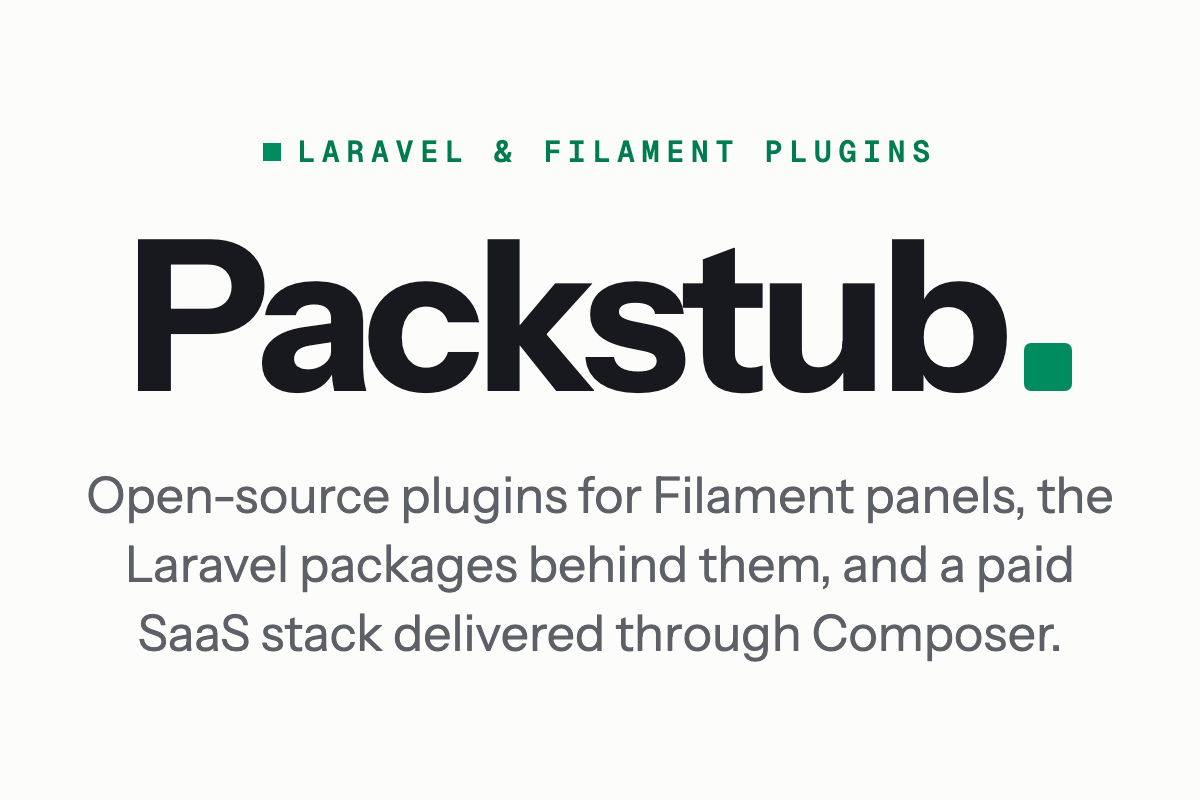
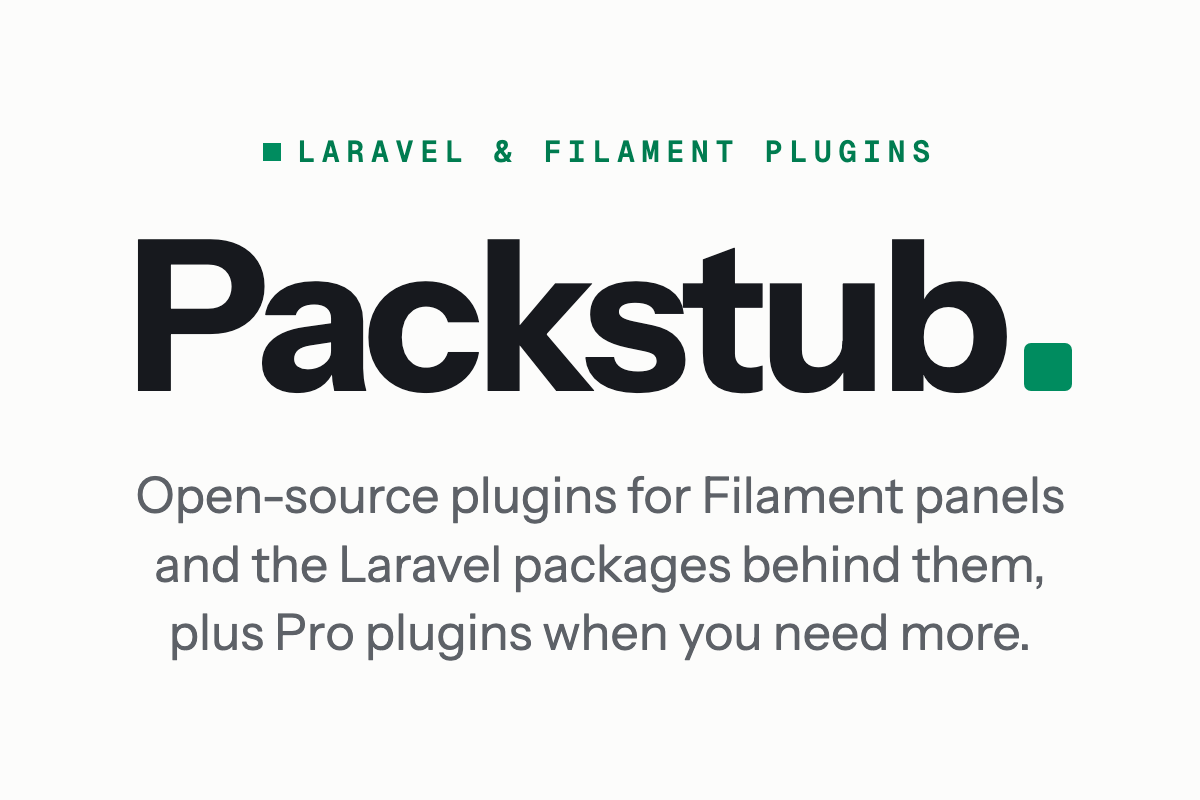
Org profile: every open-source plugin and package, Filament Tenancy under Pro
Adds Holler, Teams, Features, Spreadsheet, Gantt, Coedit, Credits and the SaaS starter; the hero line reads open source plus Pro plugins; the retired SaaS Stack card goes.

Changed region(s): [[0.0925, 0.6875, 0.8942, 0.8438], [0.0617, 0.5938, 0.925, 0.6562]]

diff --git a/profile/README.md b/profile/README.md
@@ -2,7 +2,7 @@
   <a href="https://packstub.dev">
     <picture>
       <source media="(max-width: 600px)" srcset="https://raw.githubusercontent.com/packstub/.github/main/profile/hero-mobile.png">
-      <img src="https://raw.githubusercontent.com/packstub/.github/main/profile/hero.png" alt="Packstub: Laravel and Filament plugins" width="100%">
+      <img src="https://raw.githubusercontent.com/packstub/.github/main/profile/hero.png" alt="Packstub: open-source plugins for Filament panels and the Laravel packages behind them" width="100%">
     </picture>
   </a>
 </p>
@@ -15,9 +15,9 @@
   <a href="https://xlite.dev">XLITE</a>
 </p>
 
-Plugins for [Filament](https://filamentphp.com) panels and the Laravel packages behind them. Most of it is open source under MIT and on Packagist. The paid plugins are sold on [packstub.dev](https://packstub.dev) the Composer-native way: buy once, get a personal token, `composer require`, and keep getting updates with your licence. Packages marked `beta` are usable today and tagged as pre-releases until 1.0.
+Plugins for [Filament](https://filamentphp.com) panels and the Laravel packages behind them, open source under MIT and installed from Packagist with `composer require`. When a project needs more, the Pro plugins install the same way, from Packstub's own Composer repository.
 
-## Open source
+## Filament plugins
 
 <table>
 <tr>
@@ -28,10 +28,10 @@ An in-panel AI assistant and an MCP server from one tool list.<br>
 <sub><a href="https://packstub.dev/docs/filament-agents">Docs</a> &middot; <a href="https://filamentphp.com/plugins/packstub-agents">Directory</a> &middot; <a href="https://packagist.org/packages/packstub/filament-agents">Packagist</a></sub>
 </td>
 <td width="50%" valign="top">
-<a href="https://github.com/packstub/filament-account-switcher"><img src="https://raw.githubusercontent.com/packstub/art/main/filament-account-switcher/thumbnail.jpg" alt="Filament Account Switcher" width="100%"></a>
-<b><a href="https://github.com/packstub/filament-account-switcher">Filament Account Switcher</a></b><br>
-Impersonation, linked sub-accounts and developer logins, with an audit log.<br>
-<sub><a href="https://packstub.dev/docs/filament-account-switcher">Docs</a> &middot; <a href="https://filamentphp.com/plugins/packstub-account-switcher">Directory</a> &middot; <a href="https://packagist.org/packages/packstub/filament-account-switcher">Packagist</a></sub>
+<a href="https://github.com/packstub/filament-session-replay"><img src="https://raw.githubusercontent.com/packstub/art/main/filament-session-replay/thumbnail.jpg" alt="Filament Session Replay" width="100%"></a>
+<b><a href="https://github.com/packstub/filament-session-replay">Filament Session Replay</a></b><br>
+Watch what users did in your panel, errors and rage clicks on the timeline.<br>
+<sub><a href="https://packstub.dev/docs/filament-session-replay">Docs</a> &middot; <a href="https://filamentphp.com/plugins/packstub-session-replay">Directory</a> &middot; <a href="https://packagist.org/packages/packstub/filament-session-replay">Packagist</a></sub>
 </td>
 </tr>
 <tr>
@@ -50,46 +50,94 @@ Forms built in the admin, rendered with Blade, Livewire or JSON.<br>
 </tr>
 <tr>
 <td width="50%" valign="top">
-<a href="https://github.com/packstub/filament-kanban"><img src="https://raw.githubusercontent.com/packstub/art/main/filament-kanban/thumbnail.jpg" alt="Filament Kanban" width="100%"></a>
-<b><a href="https://github.com/packstub/filament-kanban">Filament Kanban</a></b><br>
-A fast board with optimistic drag and drop and per-user columns.<br>
-<sub><a href="https://packstub.dev/docs/filament-kanban">Docs</a> &middot; <a href="https://packagist.org/packages/packstub/filament-kanban">Packagist</a></sub>
+<a href="https://github.com/packstub/filament-account-switcher"><img src="https://raw.githubusercontent.com/packstub/art/main/filament-account-switcher/thumbnail.jpg" alt="Filament Account Switcher" width="100%"></a>
+<b><a href="https://github.com/packstub/filament-account-switcher">Filament Account Switcher</a></b><br>
+Impersonation, linked sub-accounts and developer logins, with an audit log.<br>
+<sub><a href="https://packstub.dev/docs/filament-account-switcher">Docs</a> &middot; <a href="https://filamentphp.com/plugins/packstub-account-switcher">Directory</a> &middot; <a href="https://packagist.org/packages/packstub/filament-account-switcher">Packagist</a></sub>
 </td>
 <td width="50%" valign="top">
-<a href="https://github.com/packstub/filament-rating"><img src="https://raw.githubusercontent.com/packstub/art/main/filament-rating/thumbnail.jpg" alt="Filament Rating" width="100%"></a>
-<b><a href="https://github.com/packstub/filament-rating">Filament Rating</a></b><br>
-Star ratings as a field, column, entry and summarizer, half stars included.<br>
-<sub><a href="https://packstub.dev/docs/filament-rating">Docs</a> &middot; <a href="https://packagist.org/packages/packstub/filament-rating">Packagist</a></sub>
+<a href="https://github.com/packstub/filament-holler"><img src="https://raw.githubusercontent.com/packstub/art/main/filament-holler/thumbnail.jpg" alt="Filament Holler" width="100%"></a>
+<b><a href="https://github.com/packstub/filament-holler">Filament Holler</a></b><br>
+Audio, video and screen-share calls inside the panel, peer to peer over WebRTC.<br>
+<sub><a href="https://packstub.dev/docs/filament-holler">Docs</a> &middot; <a href="https://filamentphp.com/plugins/packstub-holler">Directory</a> &middot; <a href="https://packagist.org/packages/packstub/filament-holler">Packagist</a></sub>
 </td>
 </tr>
 <tr>
 <td width="50%" valign="top">
-<a href="https://github.com/packstub/filament-session-replay"><img src="https://raw.githubusercontent.com/packstub/art/main/filament-session-replay/thumbnail.jpg" alt="Filament Session Replay" width="100%"></a>
-<b><a href="https://github.com/packstub/filament-session-replay">Filament Session Replay</a></b> <sub><code>beta</code></sub><br>
-Watch what users did in your panel, errors and rage clicks on the timeline.<br>
-<sub><a href="https://packstub.dev/docs/filament-session-replay">Docs</a> &middot; <a href="https://packagist.org/packages/packstub/filament-session-replay">Packagist</a></sub>
+<a href="https://github.com/packstub/filament-teams"><img src="https://raw.githubusercontent.com/packstub/art/main/filament-teams/thumbnail.jpg" alt="Filament Teams" width="100%"></a>
+<b><a href="https://github.com/packstub/filament-teams">Filament Teams</a></b><br>
+Teams, invitations, seat limits and tenant-scoped roles.<br>
+<sub><a href="https://packstub.dev/docs/filament-teams">Docs</a> &middot; <a href="https://filamentphp.com/plugins/packstub-teams">Directory</a> &middot; <a href="https://packagist.org/packages/packstub/filament-teams">Packagist</a></sub>
+</td>
+<td width="50%" valign="top">
+<a href="https://github.com/packstub/filament-features"><img src="https://raw.githubusercontent.com/packstub/art/main/filament-features/thumbnail.jpg" alt="Filament Features" width="100%"></a>
+<b><a href="https://github.com/packstub/filament-features">Filament Features</a></b><br>
+Plans, limits and feature flags per tenant, with overrides and kill switches.<br>
+<sub><a href="https://packstub.dev/docs/filament-features">Docs</a> &middot; <a href="https://filamentphp.com/plugins/packstub-features">Directory</a> &middot; <a href="https://packagist.org/packages/packstub/filament-features">Packagist</a></sub>
+</td>
+</tr>
+<tr>
+<td width="50%" valign="top">
+<a href="https://github.com/packstub/filament-spreadsheet"><img src="https://raw.githubusercontent.com/packstub/art/main/filament-spreadsheet/thumbnail.jpg" alt="Filament Spreadsheet" width="100%"></a>
+<b><a href="https://github.com/packstub/filament-spreadsheet">Filament Spreadsheet</a></b><br>
+Edit hundreds of records like a spreadsheet, saved in one validated batch.<br>
+<sub><a href="https://packstub.dev/docs/filament-spreadsheet">Docs</a> &middot; <a href="https://filamentphp.com/plugins/packstub-spreadsheet">Directory</a> &middot; <a href="https://packagist.org/packages/packstub/filament-spreadsheet">Packagist</a></sub>
+</td>
+<td width="50%" valign="top">
+<a href="https://github.com/packstub/filament-gantt"><img src="https://raw.githubusercontent.com/packstub/art/main/filament-gantt/thumbnail.jpg" alt="Filament Gantt" width="100%"></a>
+<b><a href="https://github.com/packstub/filament-gantt">Filament Gantt</a></b><br>
+A Gantt chart and resource timeline from any Eloquent query with a start and an end.<br>
+<sub><a href="https://packstub.dev/docs/filament-gantt">Docs</a> &middot; <a href="https://filamentphp.com/plugins/packstub-gantt">Directory</a> &middot; <a href="https://packagist.org/packages/packstub/filament-gantt">Packagist</a></sub>
+</td>
+</tr>
+<tr>
+<td width="50%" valign="top">
+<a href="https://github.com/packstub/filament-kanban"><img src="https://raw.githubusercontent.com/packstub/art/main/filament-kanban/thumbnail.jpg" alt="Filament Kanban" width="100%"></a>
+<b><a href="https://github.com/packstub/filament-kanban">Filament Kanban</a></b><br>
+A fast board with optimistic drag and drop and per-user columns.<br>
+<sub><a href="https://packstub.dev/docs/filament-kanban">Docs</a> &middot; <a href="https://filamentphp.com/plugins/packstub-kanban">Directory</a> &middot; <a href="https://packagist.org/packages/packstub/filament-kanban">Packagist</a></sub>
+</td>
+<td width="50%" valign="top">
+<a href="https://github.com/packstub/filament-coedit"><img src="https://raw.githubusercontent.com/packstub/art/main/filament-coedit/thumbnail.jpg" alt="Filament Coedit" width="100%"></a>
+<b><a href="https://github.com/packstub/filament-coedit">Filament Coedit</a></b><br>
+Edit records together without locks: live presence and field-by-field merges.<br>
+<sub><a href="https://packstub.dev/docs/filament-coedit">Docs</a> &middot; <a href="https://packagist.org/packages/packstub/filament-coedit">Packagist</a></sub>
+</td>
+</tr>
+<tr>
+<td width="50%" valign="top">
+<a href="https://github.com/packstub/filament-rating"><img src="https://raw.githubusercontent.com/packstub/art/main/filament-rating/thumbnail.jpg" alt="Filament Rating" width="100%"></a>
+<b><a href="https://github.com/packstub/filament-rating">Filament Rating</a></b><br>
+Star ratings as a field, column, entry and summarizer, half stars included.<br>
+<sub><a href="https://packstub.dev/docs/filament-rating">Docs</a> &middot; <a href="https://filamentphp.com/plugins/packstub-rating">Directory</a> &middot; <a href="https://packagist.org/packages/packstub/filament-rating">Packagist</a></sub>
 </td>
 <td width="50%" valign="top">
 <a href="https://github.com/packstub/filament-nitpick"><img src="https://raw.githubusercontent.com/packstub/art/main/filament-nitpick/thumbnail.jpg" alt="Nitpick" width="100%"></a>
-<b><a href="https://github.com/packstub/filament-nitpick">Nitpick</a></b> <sub><code>beta</code></sub><br>
+<b><a href="https://github.com/packstub/filament-nitpick">Nitpick</a></b><br>
 Designed themes for Filament panels, with a per-user choice.<br>
-<sub><a href="https://packstub.dev/docs/filament-nitpick">Docs</a> &middot; <a href="https://packagist.org/packages/packstub/filament-nitpick">Packagist</a></sub>
+<sub><a href="https://packstub.dev/docs/filament-nitpick">Docs</a> &middot; <a href="https://filamentphp.com/plugins/packstub-nitpick">Directory</a> &middot; <a href="https://packagist.org/packages/packstub/filament-nitpick">Packagist</a></sub>
 </td>
 </tr>
 </table>
 
-### Laravel packages
+## Laravel packages
 
-Each of these runs in a plain Laravel app on its own. The first three are the engines behind the Filament plugins of the same name.
+Each of these runs in a plain Laravel app on its own; most are the engines behind the Filament plugins of the same name.
 
 - **[Agents for Laravel](https://github.com/packstub/agents)**: an agent engine and an MCP server sharing one tool list, with turns, budgets and limits. [Docs](https://packstub.dev/docs/agents) &middot; [Packagist](https://packagist.org/packages/packstub/agents)
-- **[Session Replay for Laravel](https://github.com/packstub/session-replay)** `beta`: an rrweb recorder with privacy defaults, token-signed ingest, recordings on your own disk and database, a player behind a gate you define. [Docs](https://packstub.dev/docs/session-replay) &middot; [Packagist](https://packagist.org/packages/packstub/session-replay) &middot; [Demo app](https://github.com/packstub/session-replay-demo)
-- **[Account Switcher for Laravel](https://github.com/packstub/account-switcher)**: the session core of Filament Account Switcher, with routes and Blade components.
+- **[Session Replay for Laravel](https://github.com/packstub/session-replay)**: an rrweb recorder with privacy defaults, token-signed ingest, recordings on your own disk and database, a player behind a gate you define. [Docs](https://packstub.dev/docs/session-replay) &middot; [Packagist](https://packagist.org/packages/packstub/session-replay) &middot; [Demo app](https://github.com/packstub/session-replay-demo)
+- **[Account Switcher for Laravel](https://github.com/packstub/account-switcher)**: impersonation, linked sub-accounts and developer logins without signing out, with an audit log. [Docs](https://packstub.dev/docs/account-switcher) &middot; [Packagist](https://packagist.org/packages/packstub/account-switcher)
+- **[Holler for Laravel](https://github.com/packstub/holler)**: audio, video and screen-share calls between the users of an app, 1-on-1 or up to four, with polling signaling and no websockets. [Docs](https://packstub.dev/docs/holler) &middot; [Packagist](https://packagist.org/packages/packstub/holler) &middot; [holler-js](https://github.com/packstub/holler-js), its browser engine
+- **[Credits](https://github.com/packstub/credits)**: credits and usage metering, with expiring credits, holds for AI calls, exact meters and plan allowances without a cron. [Docs](https://packstub.dev/docs/credits) &middot; [Packagist](https://packagist.org/packages/packstub/credits)
 - **[Partisan](https://github.com/packstub/partisan)**: Artisan for Laravel packages, `make:` generators that write into `src/` with your package namespace. [Docs](https://packstub.dev/docs/partisan) &middot; [Packagist](https://packagist.org/packages/packstub/partisan)
 
-## Paid plugins
+## Starter kit
 
-Licensed updates, VAT invoices and a customer portal that shows you exactly how to install.
+- **[Filament SaaS Starter](https://github.com/packstub/filament-saas-starter)**: a multi-tenant SaaS starter for Laravel and Filament with sign-up, workspaces, team invitations, plans with limits and Stripe billing, built on Filament Teams and Filament Features. [Packagist](https://packagist.org/packages/packstub/filament-saas-starter)
+
+## Pro
+
+For the projects that need more, with licensed updates and a customer portal that shows you exactly how to install.
 
 <table>
 <tr>
@@ -97,36 +145,19 @@ Licensed updates, VAT invoices and a customer portal that shows you exactly how 
 <a href="https://packstub.dev/plugins/filament-tenancy"><img src="https://raw.githubusercontent.com/packstub/art/main/filament-tenancy/thumbnail.jpg" alt="Filament Tenancy" width="100%"></a>
 <b><a href="https://packstub.dev/plugins/filament-tenancy">Filament Tenancy</a></b><br>
 One database per tenant, any number of database servers. Powered by stancl/tenancy.<br>
-<sub><a href="https://packstub.dev/plugins/filament-tenancy">Store</a> &middot; <a href="https://packstub.dev/docs/filament-tenancy">Docs</a> &middot; <a href="https://filamentphp.com/plugins/packstub-tenancy">Directory</a> &middot; <a href="https://github.com/packstub/filament-tenancy-demo">Demo app</a></sub>
+<sub><a href="https://packstub.dev/plugins/filament-tenancy">Plugin page</a> &middot; <a href="https://packstub.dev/docs/filament-tenancy">Docs</a> &middot; <a href="https://filamentphp.com/plugins/packstub-tenancy">Directory</a> &middot; <a href="https://github.com/packstub/filament-tenancy-demo">Demo app</a></sub>
 </td>
 <td width="50%" valign="top">
-<a href="https://packstub.dev/plugins/filament-teams"><img src="https://raw.githubusercontent.com/packstub/art/main/filament-teams/thumbnail.jpg" alt="Filament Teams" width="100%"></a>
-<b><a href="https://packstub.dev/plugins/filament-teams">Filament Teams</a></b><br>
-Teams, invitations, seat limits and tenant-scoped roles.<br>
-<sub><a href="https://packstub.dev/plugins/filament-teams">Store</a> &middot; <a href="https://packstub.dev/docs/filament-teams">Docs</a></sub>
-</td>
-</tr>
-<tr>
-<td width="50%" valign="top">
-<a href="https://packstub.dev/plugins/filament-features"><img src="https://raw.githubusercontent.com/packstub/art/main/filament-features/thumbnail.jpg" alt="Filament Features" width="100%"></a>
-<b><a href="https://packstub.dev/plugins/filament-features">Filament Features</a></b><br>
-Plans, limits and feature flags per tenant, with overrides and kill switches.<br>
-<sub><a href="https://packstub.dev/plugins/filament-features">Store</a> &middot; <a href="https://packstub.dev/docs/filament-features">Docs</a></sub>
-</td>
-<td width="50%" valign="top">
-<a href="https://packstub.dev/bundles/filament-saas-stack"><img src="https://raw.githubusercontent.com/packstub/.github/main/profile/saas-stack.jpg" alt="Filament SaaS Stack" width="100%"></a>
-<b><a href="https://packstub.dev/bundles/filament-saas-stack">Filament SaaS Stack</a></b><br>
-Tenancy, Teams and Features together, one licence for the whole stack.<br>
-<sub><a href="https://packstub.dev/bundles/filament-saas-stack">Store</a></sub>
 </td>
 </tr>
 </table>
 
 ## About the public mirrors in this org
 
-The `*-mirror` repositories are provenance mirrors of the open-source packages the paid plugins build on. The `mirror/*` tags are the exact trees served through our Composer channels, so customers can audit precisely what they install. They are not development forks: all development happens upstream, and we are grateful to the maintainers of those projects.
+The `*-mirror` repositories are provenance mirrors of the open-source packages Filament Tenancy builds on. The `mirror/*` tags are the exact trees served through our Composer repository, so you can audit precisely what you install. They are not development forks: all development happens upstream, and we are grateful to the maintainers of those projects.
 
 ## Get in touch
 
 - Support: support@packstub.dev
-- Built by [XLITE](https://xlite.dev); open-source work at [@xlitedev](https://github.com/xlitedev)
+- Made by [XLITE](https://xlite.dev); more open-source work at [@xlitedev](https://github.com/xlitedev) and [@reelson](https://github.com/reelson)
+- Sponsor the open-source work: [github.com/sponsors/icaliman](https://github.com/sponsors/icaliman)
